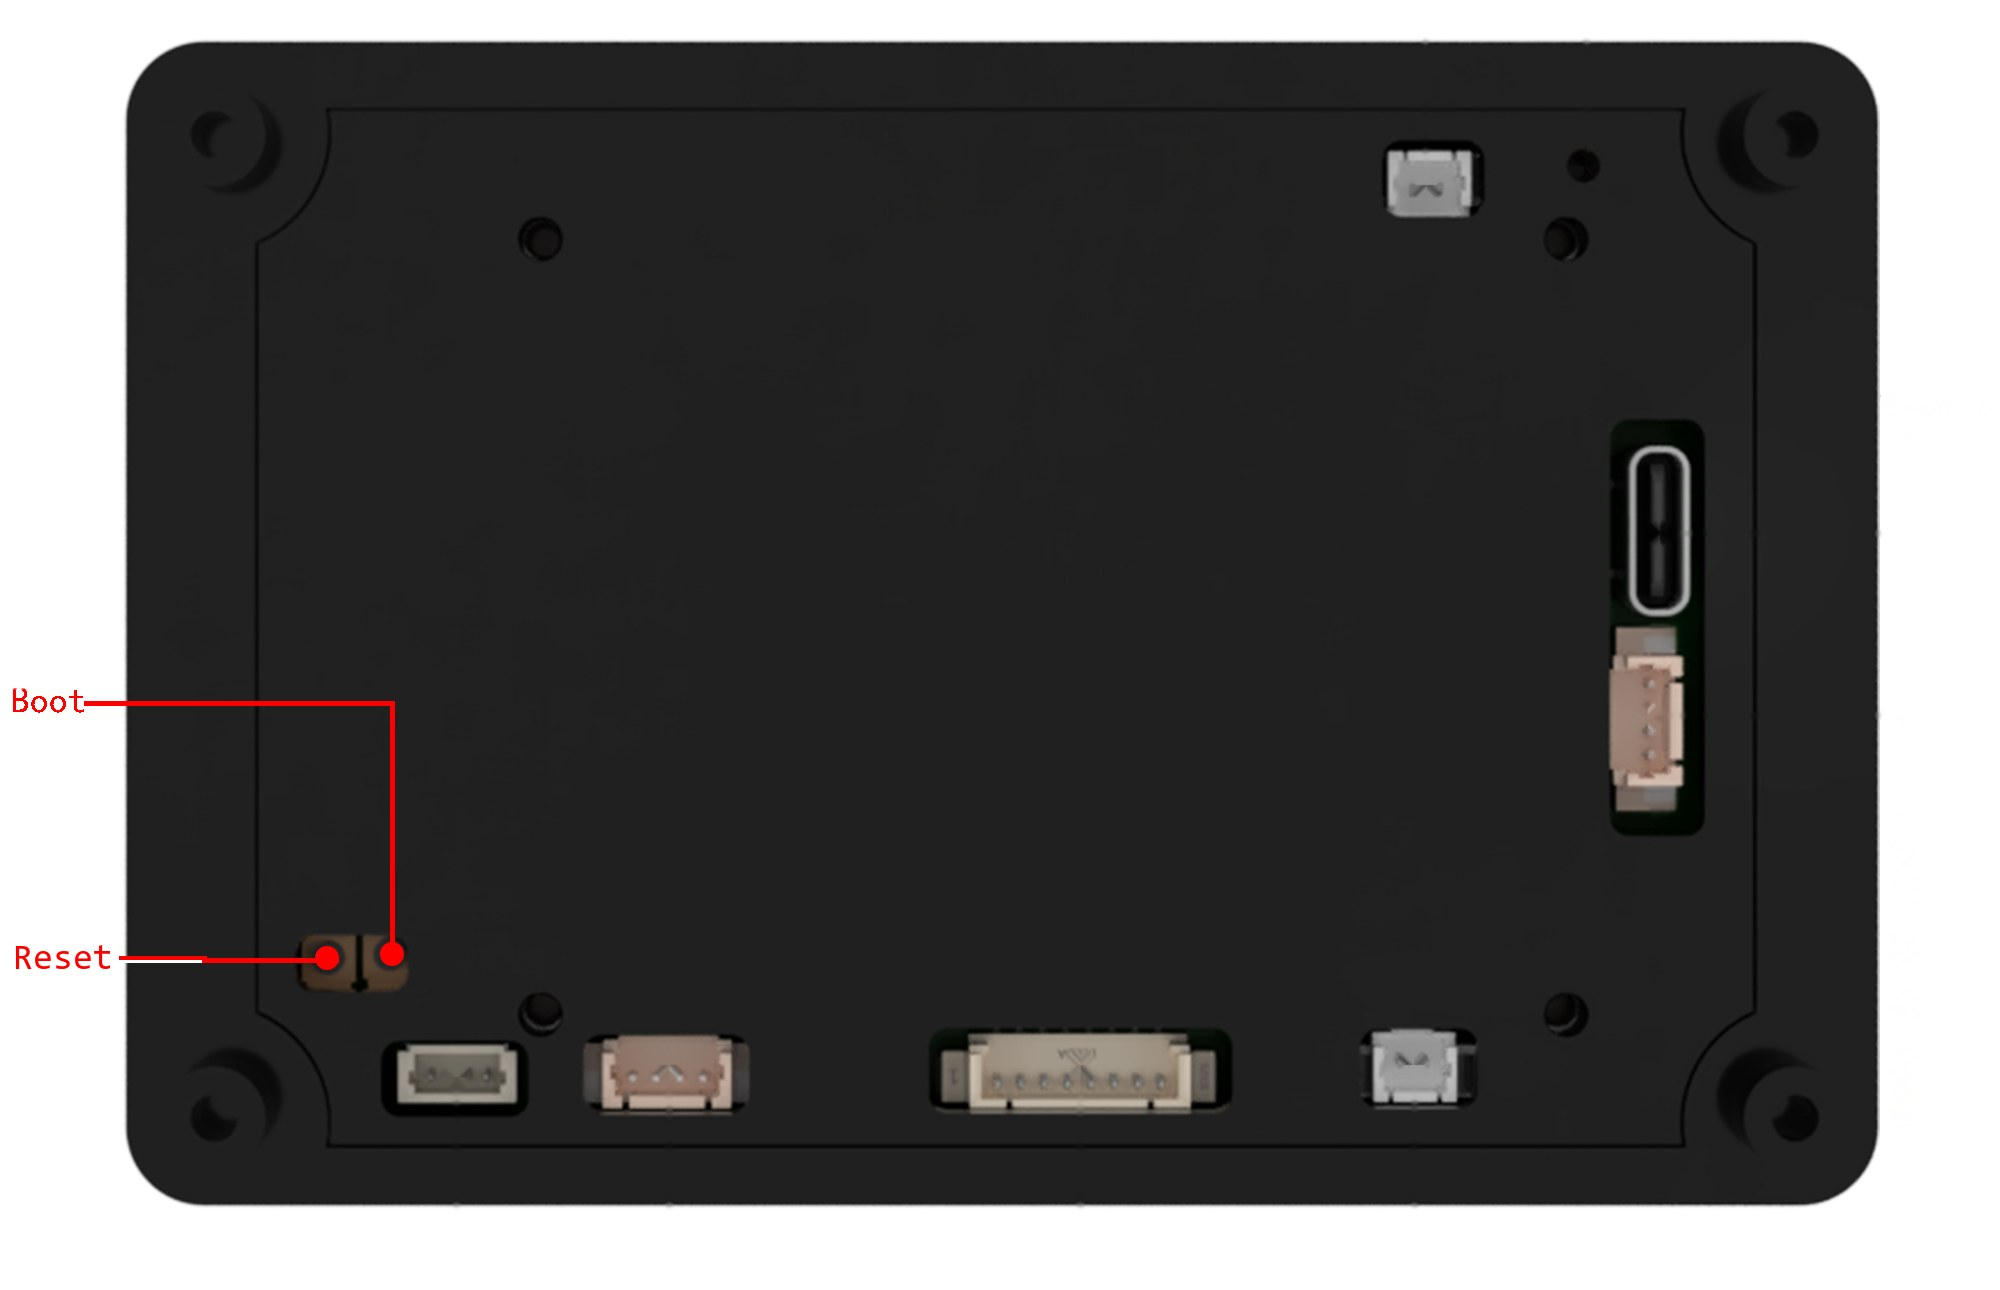
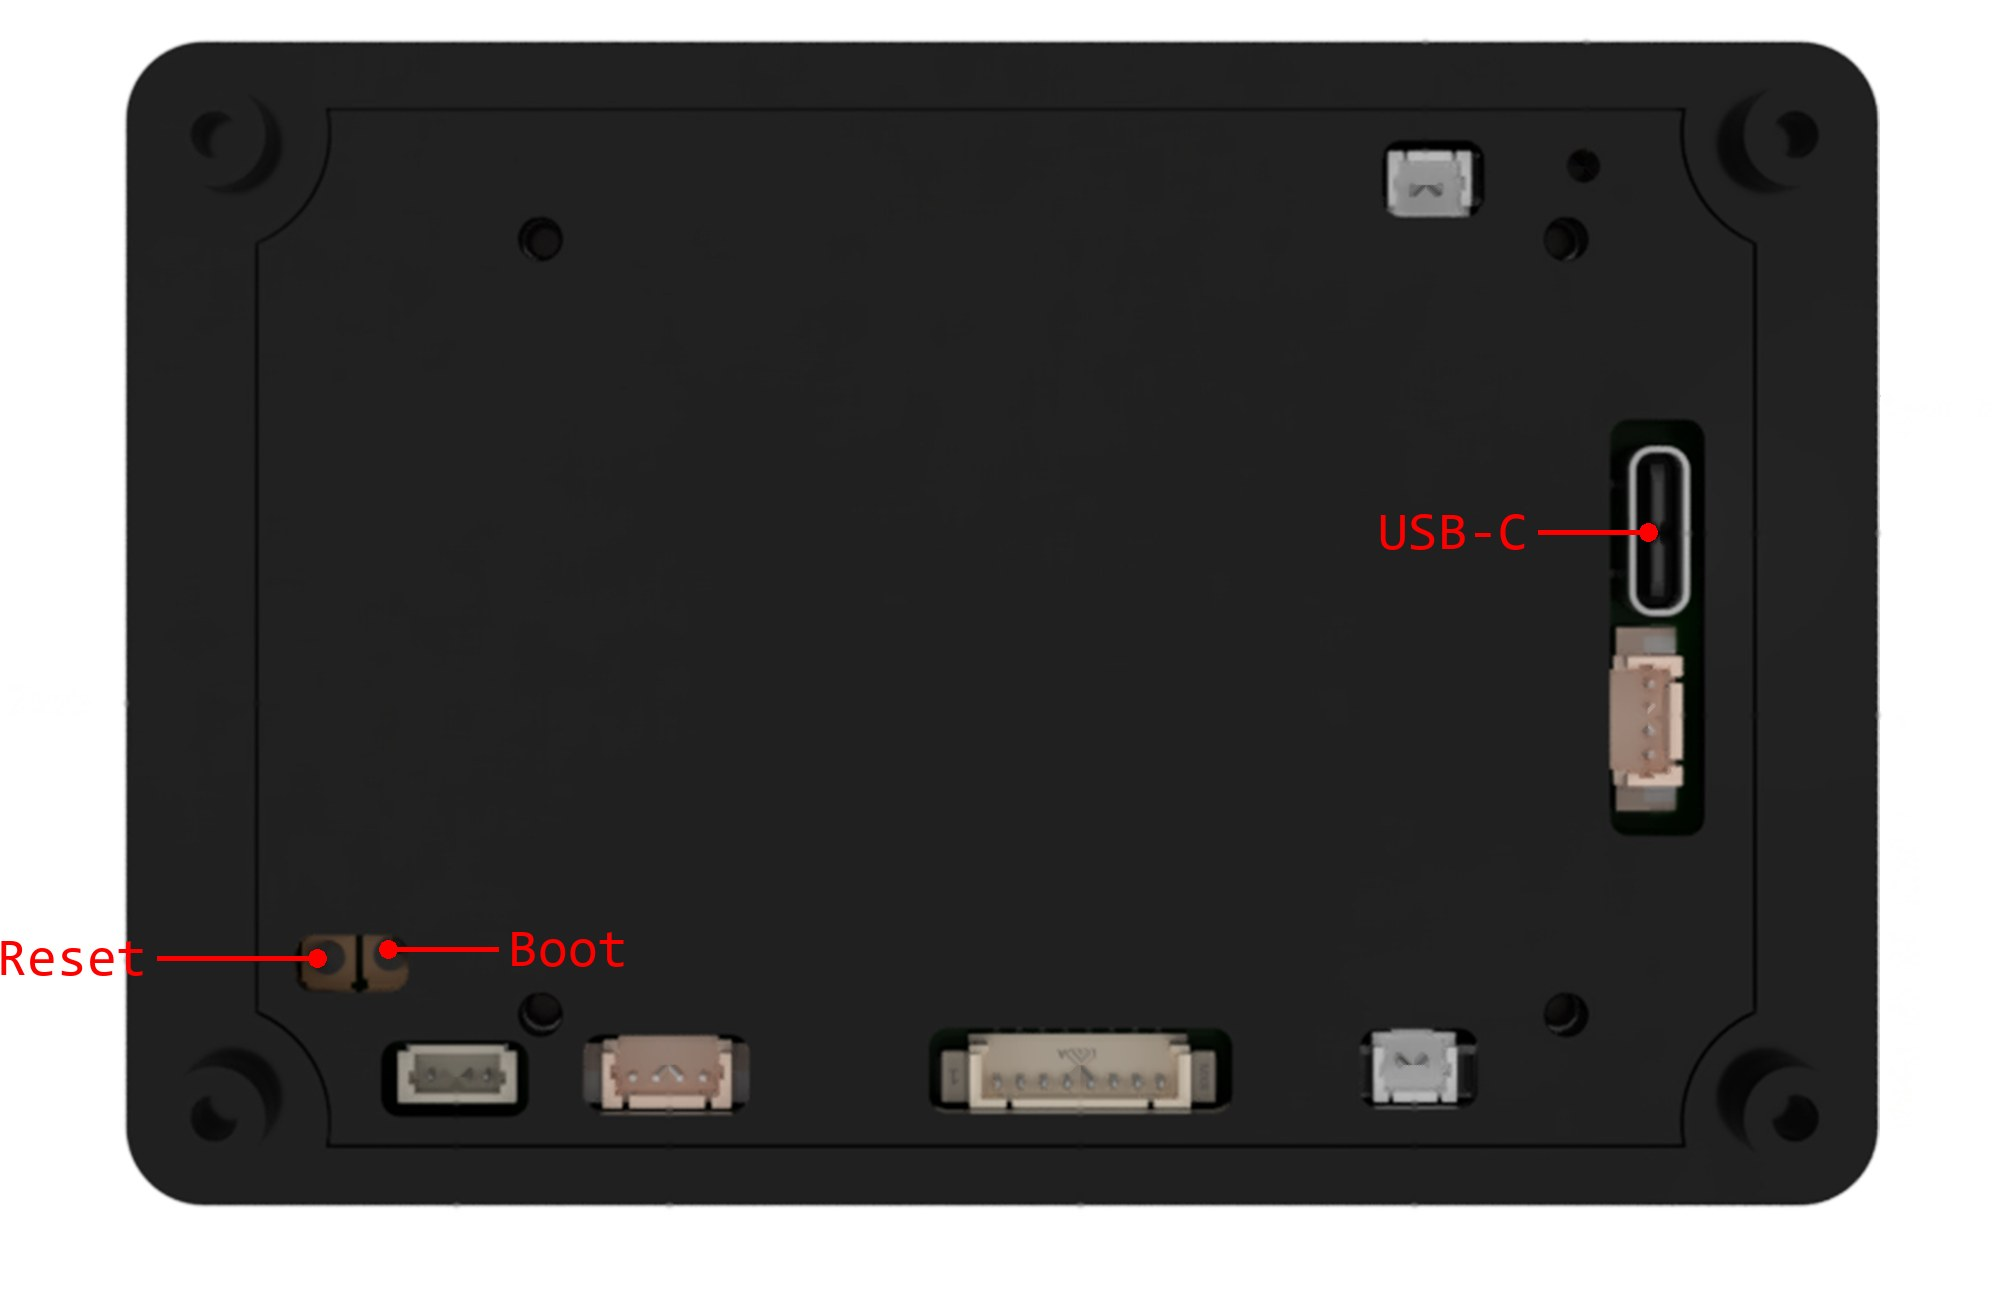
Updater page polish + on-device firmware version
Page (docs/):
- Title "DeskTicker" recoloured to match the device splash: D green, T red,
  rest white.
- Board photo redone per sample: Reset left of buttons, Boot moved to the right,
  new USB-C label, all wording enlarged.
- "Tap the photo to enlarge" caption made consistent.
- Show "Latest firmware: v1.0.0 (released 21 Jun 2026)" under the Install button.

Firmware:
- New version.h (FW_VERSION / FW_DATE). About/Diagnostics now shows
  "Firmware: v1.0.0 (2026-06-21)" instead of the raw build timestamp, so a
  customer can compare against the updater page.
- PUBLISHING.md: bump version.h as the first release step.

Changed region(s): [[0.0, 0.5271, 0.31, 0.7752], [0.0, 0.7132, 0.093, 0.7752], [0.682, 0.4031, 0.837, 0.4341]]

diff --git a/docs/index.html b/docs/index.html
@@ -91,6 +91,9 @@
             border:1px solid var(--line); border-radius:8px; cursor:zoom-in; }
     .shot-narrow { max-width:300px; }
     .caption { color: var(--muted); font-size: 13px; }
+    .ver { text-align:center; margin: 14px 0 0; color: var(--text); font-size: 14px; }
+    .ver strong { color: var(--bull); }
+    .ver .date { color: var(--muted); }
     code { background: #1d2731; padding: 1px 5px; border-radius: 4px; font-size: 13px; }
     footer { text-align: center; color: var(--muted); font-size: 13px; margin-top: 40px; }
   </style>
@@ -98,7 +101,7 @@
 <body>
   <div class="wrap">
     <header>
-      <div class="word"><span class="d">Desk</span>Ticker</div>
+      <div class="word"><span class="d">D</span>esk<span class="t">T</span>icker</div>
       <div class="tag">Firmware Updater</div>
     </header>
 
@@ -126,7 +129,7 @@
               <img class="shot shot-narrow" src="img/COM-flash-edit.png"
                    alt="Choose the port labelled USB JTAG/serial debug unit" />
             </a>
-            <span class="caption">Tap the picture to enlarge.</span></li>
+            <span class="caption">Tap the photo to enlarge.</span></li>
         <li>To <span class="ok">keep your settings</span> (Wi-Fi, tickers, theme),
             leave the <em>“Erase device”</em> box <strong>unchecked</strong>.
             Tick it only for a clean reset / recovery.</li>
@@ -144,6 +147,8 @@
           </span>
         </esp-web-install-button>
       </div>
+      <p class="ver">Latest firmware: <strong>v1.0.0</strong>
+         <span class="date">· released 21 Jun 2026</span></p>
     </div>
 
     <div class="card">

diff --git a/DeskTicker/version.h b/DeskTicker/version.h
@@ -1,0 +1,12 @@
+#pragma once
+// ─────────────────────────────────────────────────────────────────────────────
+// Firmware version shown on the on-device About / Diagnostics screen.
+// Keep this in sync with the web updater:
+//   - docs/manifest.json  ("version")
+//   - the "Latest firmware" line in docs/index.html
+//   - the docs/firmware/<ver>/ folder name
+// Bump FW_VERSION + FW_DATE together every time you publish a new release so a
+// customer can compare what's on their device to what the updater page offers.
+// ─────────────────────────────────────────────────────────────────────────────
+#define FW_VERSION "1.0.0"
+#define FW_DATE    "2026-06-21"

diff --git a/DeskTicker/settings_screen.cpp b/DeskTicker/settings_screen.cpp
@@ -14,6 +14,7 @@
 #include "tz_options.h"
 #include "chart_screen.h"   // SCR_W, SCR_H
 #include "display.h"        // bsp_display_brightness_set
+#include "version.h"        // FW_VERSION / FW_DATE
 
 // ── Color constants (match chart_screen dark theme) ───────────────────────────
 #define SS_BG       lv_color_hex(0x0E1117)   // Deep Space
@@ -1343,7 +1344,8 @@ static void build_diag_page() {
     };
 
     make_diag_row(page_diag, &diag_fw_lbl);
-    lv_label_set_text(diag_fw_lbl, "Build: " __DATE__ " " __TIME__);
+    // Customer-facing version (compare against the web updater page) + build stamp
+    lv_label_set_text(diag_fw_lbl, "Firmware: v" FW_VERSION "  (" FW_DATE ")");
 
     make_diag_row(page_diag, &diag_heap_lbl);
     make_diag_row(page_diag, &diag_psram_lbl);

diff --git a/docs/PUBLISHING.md b/docs/PUBLISHING.md
@@ -8,6 +8,12 @@ IDE — only **you** (the maintainer) do, to produce the binaries.
 
 ## 1. Build the firmware in Arduino IDE
 
+**First, bump the version** in `DeskTicker/version.h` — set `FW_VERSION` and
+`FW_DATE` to the new release. This is what shows on the device's *About /
+Diagnostics* screen, so it must match the `version` in `manifest.json` and the
+"Latest firmware" line on the page. Customers compare the two to know if they're
+up to date.
+
 Open `DeskTicker/DeskTicker.ino` and set **Tools** exactly as the product ships:
 
 - **Board:** ESP32S3 Dev Module (JC3248W535C)